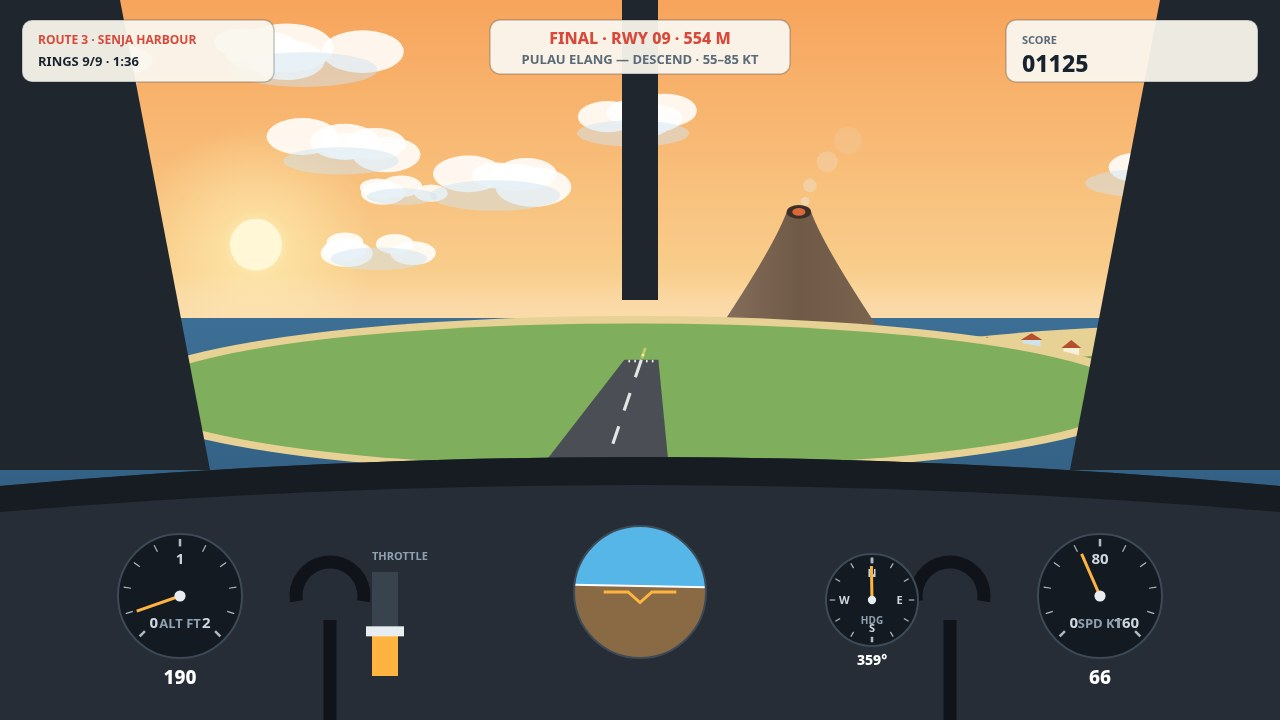
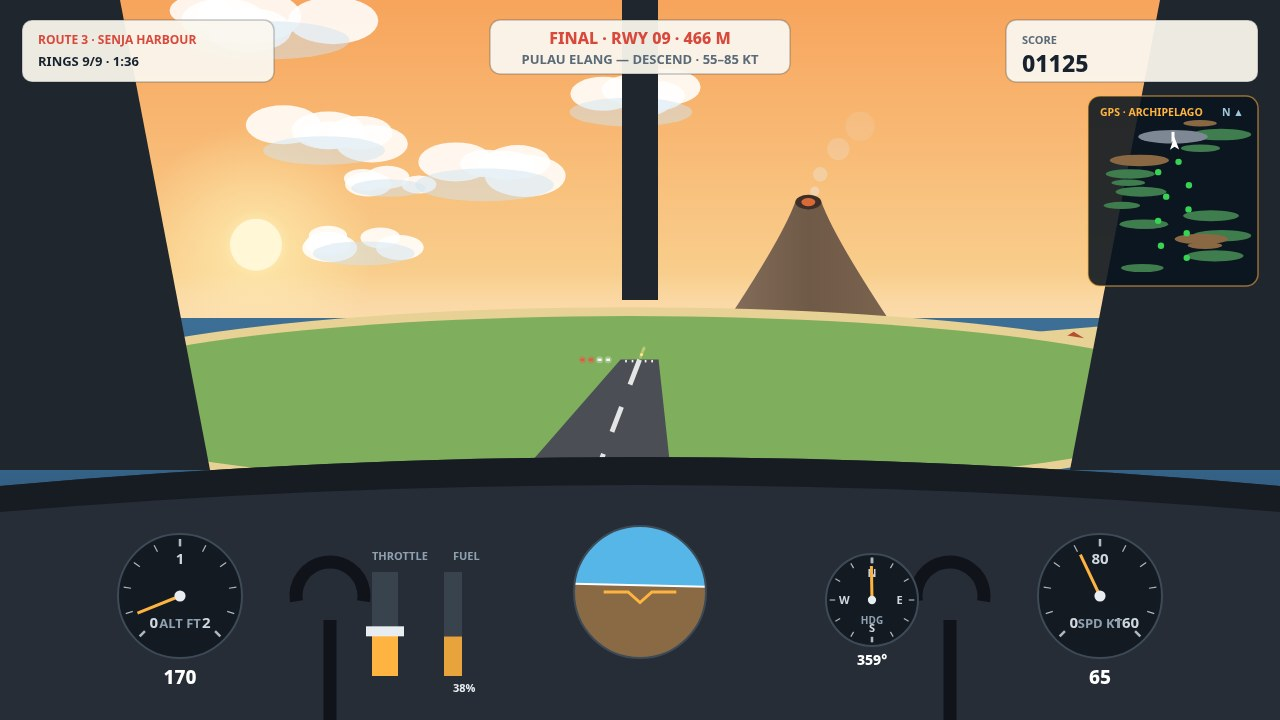
v2: course radar minimap (chase + cockpit GPS), fuel system with bonus and flameout glide, PAPI glide lights, richer results

diff --git a/game/src/hud.js b/game/src/hud.js
@@ -216,13 +216,20 @@ export function drawChaseHud(ctx, st) {
   label(ctx, 700, 626, "HEADING", 11);
   value(ctx, 700, 656, `${String(hdg).padStart(3, "0")}°`, 26);
   compassRibbon(ctx, 792, 618, 150, hdg);
-  // Throttle bar.
-  label(ctx, 700, 692, "THR", 10);
+  // Throttle and fuel bars.
+  label(ctx, 700, 678, "THR", 10);
   ctx.fillStyle = "#d8dee4";
-  ctx.fillRect(730, 684, 120, 9);
+  ctx.fillRect(730, 670, 120, 8);
   ctx.fillStyle = p.throttle > 0.85 ? RED : TEAL;
-  ctx.fillRect(730, 684, 120 * p.throttle, 9);
-  label(ctx, 862, 692, `VSI ${p.vsi >= 0 ? "+" : ""}${Math.round(p.vsi * 196.85)}`, 11, INK);
+  ctx.fillRect(730, 670, 120 * p.throttle, 8);
+  label(ctx, 862, 678, `VSI ${p.vsi >= 0 ? "+" : ""}${Math.round(p.vsi * 196.85)}`, 11, INK);
+  label(ctx, 700, 696, "FUEL", 10, p.fuel < 0.2 ? RED : "#5a6a78");
+  ctx.fillStyle = "#d8dee4";
+  ctx.fillRect(730, 688, 120, 8);
+  ctx.fillStyle = p.fuel < 0.2 ? RED : p.fuel < 0.38 ? "#e8a33d" : "#39d353";
+  ctx.fillRect(730, 688, 120 * Math.max(0, p.fuel), 8);
+  label(ctx, 858, 696, `${Math.round(Math.max(0, p.fuel) * 100)}%`, 11, INK);
+  drawMinimap(ctx, st, 1086, 492, 176, 208, "ARCHIPELAGO RADAR");
 }
 
 // Cockpit gauges: three big dials on the dashboard + top strip.
@@ -244,6 +251,14 @@ export function drawCockpitHud(ctx, st) {
   ctx.fillRect(372, 572 + 104 * (1 - p.throttle), 26, 104 * p.throttle);
   ctx.fillStyle = "#e8edf2";
   ctx.fillRect(366, 566 + 104 * (1 - p.throttle), 38, 10);
+  // Fuel gauge beside the quadrant.
+  label(ctx, 453, 560, "FUEL", 11, p.fuel < 0.2 ? "#ff7a6b" : "#8fa1b1");
+  ctx.fillStyle = "#39434e";
+  ctx.fillRect(444, 572, 18, 104);
+  ctx.fillStyle = p.fuel < 0.2 ? RED : p.fuel < 0.38 ? "#e8a33d" : "#39d353";
+  ctx.fillRect(444, 572 + 104 * (1 - Math.max(0, p.fuel)), 18, 104 * Math.max(0, p.fuel));
+  label(ctx, 453, 692, `${Math.round(Math.max(0, p.fuel) * 100)}%`, 11, "#e8edf2");
+  drawMinimap(ctx, st, 1088, 96, 170, 190, "GPS · ARCHIPELAGO");
   // Top strip: route, rings, time, score.
   card(ctx, 22, 20, 252, 62);
   label(ctx, 38, 44, `ROUTE ${st.route.id} · ${st.route.name}`, 12, RED);
@@ -265,6 +280,58 @@ export function drawCockpitHud(ctx, st) {
 }
 
 // Centre announcement (RING +100, FINAL APPROACH, banner events).
+// Top-down course radar: islands as blobs, rings as state dots, the
+// runway as a white bar with a flag, and the plane as a heading arrow.
+export function drawMinimap(ctx, st, x, y, w, h, title) {
+  ctx.fillStyle = "rgba(9,20,32,0.88)";
+  ctx.beginPath();
+  ctx.roundRect(x, y, w, h, 12);
+  ctx.fill();
+  ctx.strokeStyle = "rgba(255,179,64,0.55)";
+  ctx.lineWidth = 1.5;
+  ctx.stroke();
+  label(ctx, x + 12, y + 20, title, 10.5, GOLD);
+  label(ctx, x + w - 36, y + 20, "N ▲", 10.5, "#9fc6d8");
+  const wld = st.world;
+  const zMin = -260;
+  const zMax = wld.runway.z + 430;
+  const sx = w / 2100;
+  const sz = (h - 44) / (zMax - zMin);
+  const mx = (wx) => x + w / 2 + wx * sx;
+  const mz = (wz) => y + h - 10 - (wz - zMin) * sz;
+  for (const isl of wld.islands) {
+    ctx.fillStyle = isl.kind === "volcano" ? "#8a6844" : isl.kind === "runway" ? "#7d8894" : "#3f7d4e";
+    ctx.beginPath();
+    ctx.ellipse(mx(isl.x), mz(isl.z), Math.max(2.5, isl.r * sx), Math.max(2.5, isl.r * sz), 0, 0, Math.PI * 2);
+    ctx.fill();
+  }
+  ctx.strokeStyle = "#ffffff";
+  ctx.lineWidth = 3;
+  ctx.beginPath();
+  ctx.moveTo(mx(wld.runway.x), mz(wld.runway.z - wld.runway.len / 2));
+  ctx.lineTo(mx(wld.runway.x), mz(wld.runway.z + wld.runway.len / 2));
+  ctx.stroke();
+  for (const r of wld.rings) {
+    ctx.fillStyle = r.state === "passed" ? "#39d353" : r.state === "missed" ? "#e5484d" : r.state === "next" ? "#ffb340" : "#57c7d4";
+    ctx.beginPath();
+    ctx.arc(mx(r.x), mz(r.z), r.state === "next" ? 4.4 : 3.2, 0, Math.PI * 2);
+    ctx.fill();
+  }
+  const p = st.plane;
+  ctx.save();
+  ctx.translate(mx(p.x), mz(p.z));
+  ctx.rotate(p.heading);
+  ctx.fillStyle = "#ffffff";
+  ctx.beginPath();
+  ctx.moveTo(0, -7);
+  ctx.lineTo(4.6, 5.5);
+  ctx.lineTo(0, 2.8);
+  ctx.lineTo(-4.6, 5.5);
+  ctx.closePath();
+  ctx.fill();
+  ctx.restore();
+}
+
 export function drawBanner(ctx, st, now) {
   if (!st.banner || now > st.banner.until) return;
   const a = Math.min(1, (st.banner.until - now) / 0.4, (now - st.banner.from) / 0.15 + 0.2);

diff --git a/game/src/main.js b/game/src/main.js
@@ -43,6 +43,8 @@ const st = {
   landingRating: "",
   landingBonus: 0,
   timeBonus: 0,
+  fuelBonus: 0,
+  fuelWarned: false,
   crashTitle: "",
   crashWhy: "",
   unlocked: progress.unlocked,
@@ -53,7 +55,7 @@ const st = {
 function newPlane() {
   return {
     x: 0, y: 150, z: 0,
-    speed: 40, throttle: 0.72,
+    speed: 40, throttle: 0.72, fuel: 1,
     heading: 0, headingDeg: 0,
     bank: 0, pitch: 0, vsi: 0,
     screenX: 0, screenY: 0,
@@ -77,6 +79,8 @@ function startRoute(idx) {
   st.landingRating = "";
   st.landingBonus = 0;
   st.timeBonus = 0;
+  st.fuelBonus = 0;
+  st.fuelWarned = false;
   st.mode = "flying";
   setBanner(st.route.name, st.route.sub, "#ffb340", 2.6);
   say(`Route ${st.route.id}, ${st.route.name}. Fly through ${st.world.rings.length} rings, then land on the runway.`);
@@ -113,14 +117,22 @@ function updateFlight(dt) {
   // Rudder fine trim.
   if (down("KeyA")) p.heading -= dt * 0.12;
   if (down("KeyD")) p.heading += dt * 0.12;
+  // Fuel burns with the throttle; an empty tank means gliding home.
+  p.fuel = Math.max(0, p.fuel - dt * (0.0021 + p.throttle * 0.0043));
+  if (p.fuel < 0.25 && !st.fuelWarned) {
+    st.fuelWarned = true;
+    setBanner("LOW FUEL", "EASE OFF THE THROTTLE", "#e8a33d", 2.2);
+  }
+  const flameout = p.fuel <= 0;
   // Speed chases the throttle.
-  const targetSpeed = 22 + p.throttle * 48;
+  const targetSpeed = flameout ? 24 : 22 + p.throttle * 48;
   p.speed += (targetSpeed - p.speed) * Math.min(1, dt * 0.55);
   // Turn from bank; vertical speed from pitch, throttle and stall.
   const turnRate = p.bank * 0.5 * Math.max(0.55, Math.min(1.25, 34 / p.speed));
   p.heading += turnRate * dt;
   p.headingDeg = ((p.heading * 180 / Math.PI) % 360 + 360) % 360;
   let vsi = p.pitch * p.speed * 0.4 + (p.throttle - 0.42) * 2.4;
+  if (flameout) vsi -= 1.7; // a dead engine only glides down
   if (p.speed < 25 && p.pitch > 0.1) vsi -= (25 - p.speed) * 0.24; // stall sink
   p.vsi = vsi;
   p.y += vsi * dt;
@@ -134,7 +146,7 @@ function updateFlight(dt) {
   checkRings();
   checkLandingAndTerrain();
   updateGuide();
-  engineSound(p.throttle, true);
+  engineSound(p.throttle, p.fuel > 0);
 }
 
 function checkRings() {
@@ -205,7 +217,8 @@ function checkLandingAndTerrain() {
     st.landingRating = rating;
     st.landingBonus = bonus;
     st.timeBonus = Math.max(0, Math.round((st.route.par - st.timeSec)) * 5);
-    st.score = st.ringPoints + bonus + st.timeBonus;
+    st.fuelBonus = Math.round(p.fuel * 200);
+    st.score = st.ringPoints + bonus + st.timeBonus + st.fuelBonus;
     st.stars = Math.min(3, 1 + (st.ringsHit === world.rings.length ? 1 : 0) + (rating !== "FIRM" ? 1 : 0));
     st.mode = "complete";
     engineSound(0, false);

diff --git a/game/src/render.js b/game/src/render.js
@@ -234,7 +234,7 @@ function drawIsland(ctx, isl, cam, t) {
 }
 
 // The runway strip in true perspective (projected corners) + approach lights.
-export function drawRunway(ctx, world, cam, t) {
+export function drawRunway(ctx, world, cam, t, plane) {
   const rw = world.runway;
   const hz = rw.z - rw.len / 2;
   const nz = rw.z + rw.len / 2;
@@ -282,6 +282,31 @@ export function drawRunway(ctx, world, cam, t) {
     ctx.beginPath();
     ctx.arc(p.x, p.y, Math.max(1.6, 3.4 * p.s * 0.35), 0, Math.PI * 2);
     ctx.fill();
+  }
+  // PAPI glide lights beside the threshold: white when high, red when
+  // low, two-and-two on the 3° glide path to the aim point.
+  if (plane) {
+    const aimZ = nz - 40;
+    const dz = aimZ - plane.z;
+    let whites = 2;
+    if (dz > 0) {
+      const dev = plane.y - (rw.y + 4 + dz * 0.052);
+      whites = dev > 14 ? 4 : dev > 5 ? 3 : dev > -5 ? 2 : dev > -14 ? 1 : 0;
+    }
+    for (let i = 0; i < 4; i++) {
+      const p = project(cam, rw.x - rw.wid / 2 - 13 - i * 10, rw.y + 1.5, nz - 30);
+      if (!p) continue;
+      const w = Math.max(2.2, 11 * p.s * 0.4);
+      const h = Math.max(1.6, 6.5 * p.s * 0.4);
+      const col = i < whites ? "#ffffff" : "#ff4747";
+      ctx.fillStyle = col;
+      ctx.globalAlpha = 0.28;
+      ctx.beginPath();
+      ctx.arc(p.x, p.y, w * 0.95, 0, Math.PI * 2);
+      ctx.fill();
+      ctx.globalAlpha = 1;
+      ctx.fillRect(p.x - w / 2, p.y - h / 2, w, h);
+    }
   }
 }
 
@@ -504,7 +529,7 @@ export function drawWorld(ctx, world, cam, plane, t, view) {
     if (it.k === "i") drawIsland(ctx, it.o, cam, t);
     else drawCloud(ctx, it.o, cam);
   }
-  drawRunway(ctx, world, cam, t);
+  drawRunway(ctx, world, cam, t, plane);
   const rings = [...world.rings].sort((a, b) => b.z - a.z);
   for (const r of rings) {
     if (r.state === "passed" && r.z < cam.z) continue;

diff --git a/game/src/shots.js b/game/src/shots.js
@@ -24,7 +24,7 @@ export function applyShot(st, name, { startRoute }) {
     Object.assign(st.plane, {
       x: ring.x - 36, y: ring.y + 16, z: ring.z - 300,
       speed: 47, throttle: 0.82, bank: 0.38, pitch: 0.06,
-      heading: 0.1,
+      heading: 0.1, fuel: 0.62,
     });
     st.view = "chase";
     st.banner = null;
@@ -41,9 +41,9 @@ export function applyShot(st, name, { startRoute }) {
     st.score = 1125;
     st.timeSec = 96;
     Object.assign(st.plane, {
-      x: 18, y: 58, z: w.runway.z - 560,
+      x: 18, y: 52, z: w.runway.z - 470,
       speed: 33, throttle: 0.42, bank: -0.05, pitch: -0.12,
-      heading: -0.02,
+      heading: -0.02, fuel: 0.38,
     });
     st.view = "cockpit";
     st.banner = null;
@@ -65,8 +65,10 @@ export function applyShot(st, name, { startRoute }) {
     st.stars = 3;
     Object.assign(st.plane, {
       x: 2, y: w.runway.y, z: w.runway.z + 40,
-      speed: 0, throttle: 0, bank: 0, pitch: 0,
+      speed: 0, throttle: 0, bank: 0, pitch: 0, fuel: 0.41,
     });
+    st.fuelBonus = Math.round(0.41 * 200);
+    st.score = st.ringPoints + st.landingBonus + st.timeBonus + st.fuelBonus;
     st.mode = "complete";
     st.unlocked = 2; // route 2 earned, as a real finish would leave it
     st.banner = null;

diff --git a/game/src/screens.js b/game/src/screens.js
@@ -109,19 +109,20 @@ export function drawComplete(ctx, st) {
     ["RING POINTS", `${st.ringPoints}`],
     ["LANDING BONUS", `${st.landingBonus}`],
     ["TIME BONUS", `${st.timeBonus}`],
+    ["FUEL BONUS", `${st.fuelBonus}  (${Math.round(Math.max(0, st.plane.fuel) * 100)}% left)`],
   ];
   rows.forEach(([k, v], i) => {
-    const y = 292 + i * 30;
+    const y = 288 + i * 28;
     txt(ctx, 392, y, k, 14, "#5a6a78");
     txt(ctx, 888, y, v, 16, INK, 800, "right");
   });
   ctx.strokeStyle = "rgba(23,34,46,0.2)";
   ctx.beginPath();
-  ctx.moveTo(392, 292 + rows.length * 30 - 16);
-  ctx.lineTo(888, 292 + rows.length * 30 - 16);
+  ctx.moveTo(392, 288 + rows.length * 28 - 14);
+  ctx.lineTo(888, 288 + rows.length * 28 - 14);
   ctx.stroke();
-  txt(ctx, 392, 292 + rows.length * 30 + 22, "TOTAL SCORE", 16, RED);
-  txt(ctx, 888, 292 + rows.length * 30 + 22, String(st.score), 24, INK, 900, "right");
+  txt(ctx, 392, 288 + rows.length * 28 + 20, "TOTAL SCORE", 16, RED);
+  txt(ctx, 888, 288 + rows.length * 28 + 20, String(st.score), 24, INK, 900, "right");
   // Course map strip: islands as dots, rings as ticks, runway flag.
   const mx = 392, my = 528, mw = 496;
   ctx.strokeStyle = TEAL;

diff --git a/README.md b/README.md
@@ -19,10 +19,11 @@ rings, par time and light.
   altitude, speed and heading on a lit instrument strip, with a
   compass ribbon, artificial horizon, throttle and VSI.
 - **Cockpit view** — dashboard dials lit (altimeter, horizon, heading,
-  airspeed), the runway ahead with its approach lights sequencing, on
-  final at sunset.
-- **Route complete** — stars, time against par, ring and landing
-  points, and a course map showing every ring flown.
+  airspeed, fuel gauge), a GPS course radar, the runway ahead with its
+  approach lights sequencing and PAPI glide lights (two white, two red
+  on the 3° path), on final at sunset.
+- **Route complete** — stars, time against par, ring, landing, time
+  and fuel points, and a course map showing every ring flown.
 
 ## How it plays
 
@@ -30,6 +31,9 @@ rings, par time and light.
 - **C** chase / cockpit camera · **P** pause · **R** retry · mouse drag also steers
 - Rings score more when flown in a combo; the landing is rated
   PERFECT / SMOOTH / FIRM by sink rate, speed and centreline.
+- Fuel burns with the throttle and pays a bonus for what is left in
+  the tank — run dry and you glide. A course radar (chase view and
+  cockpit GPS) tracks every ring, island and the runway.
 - Islands have real height — clip one and the race ends. So does the sea.
 
 ## How it is built
